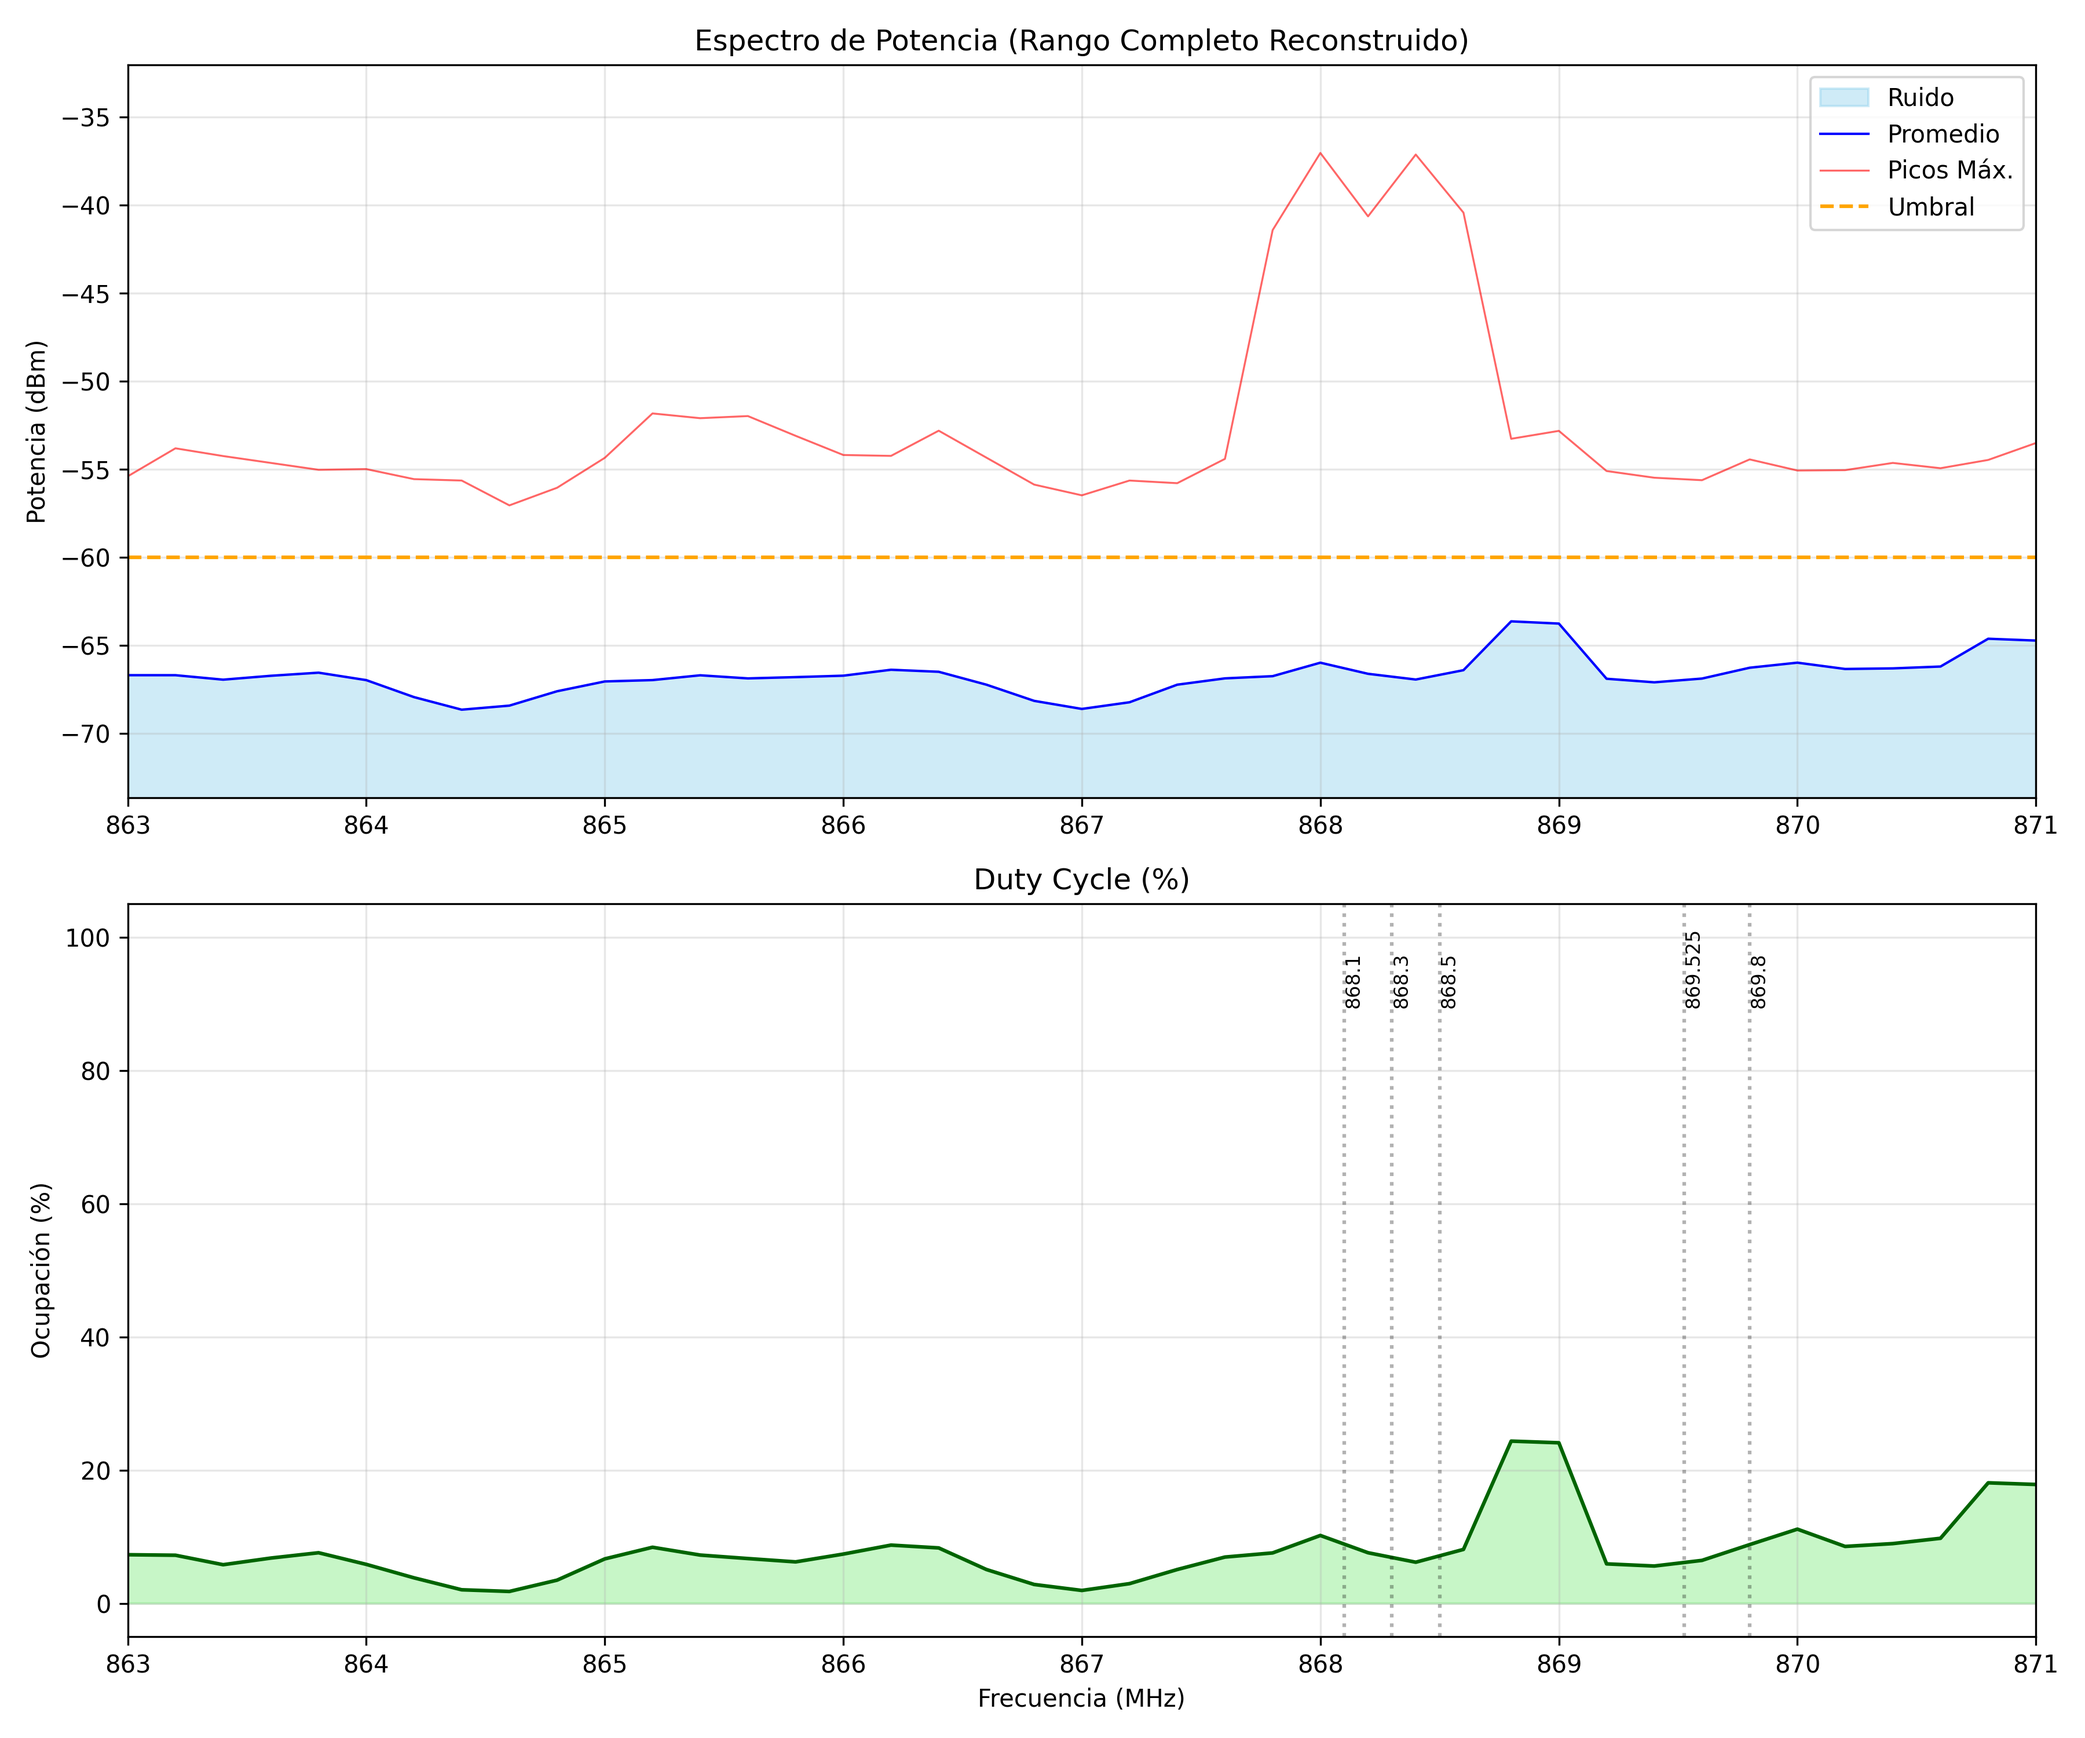
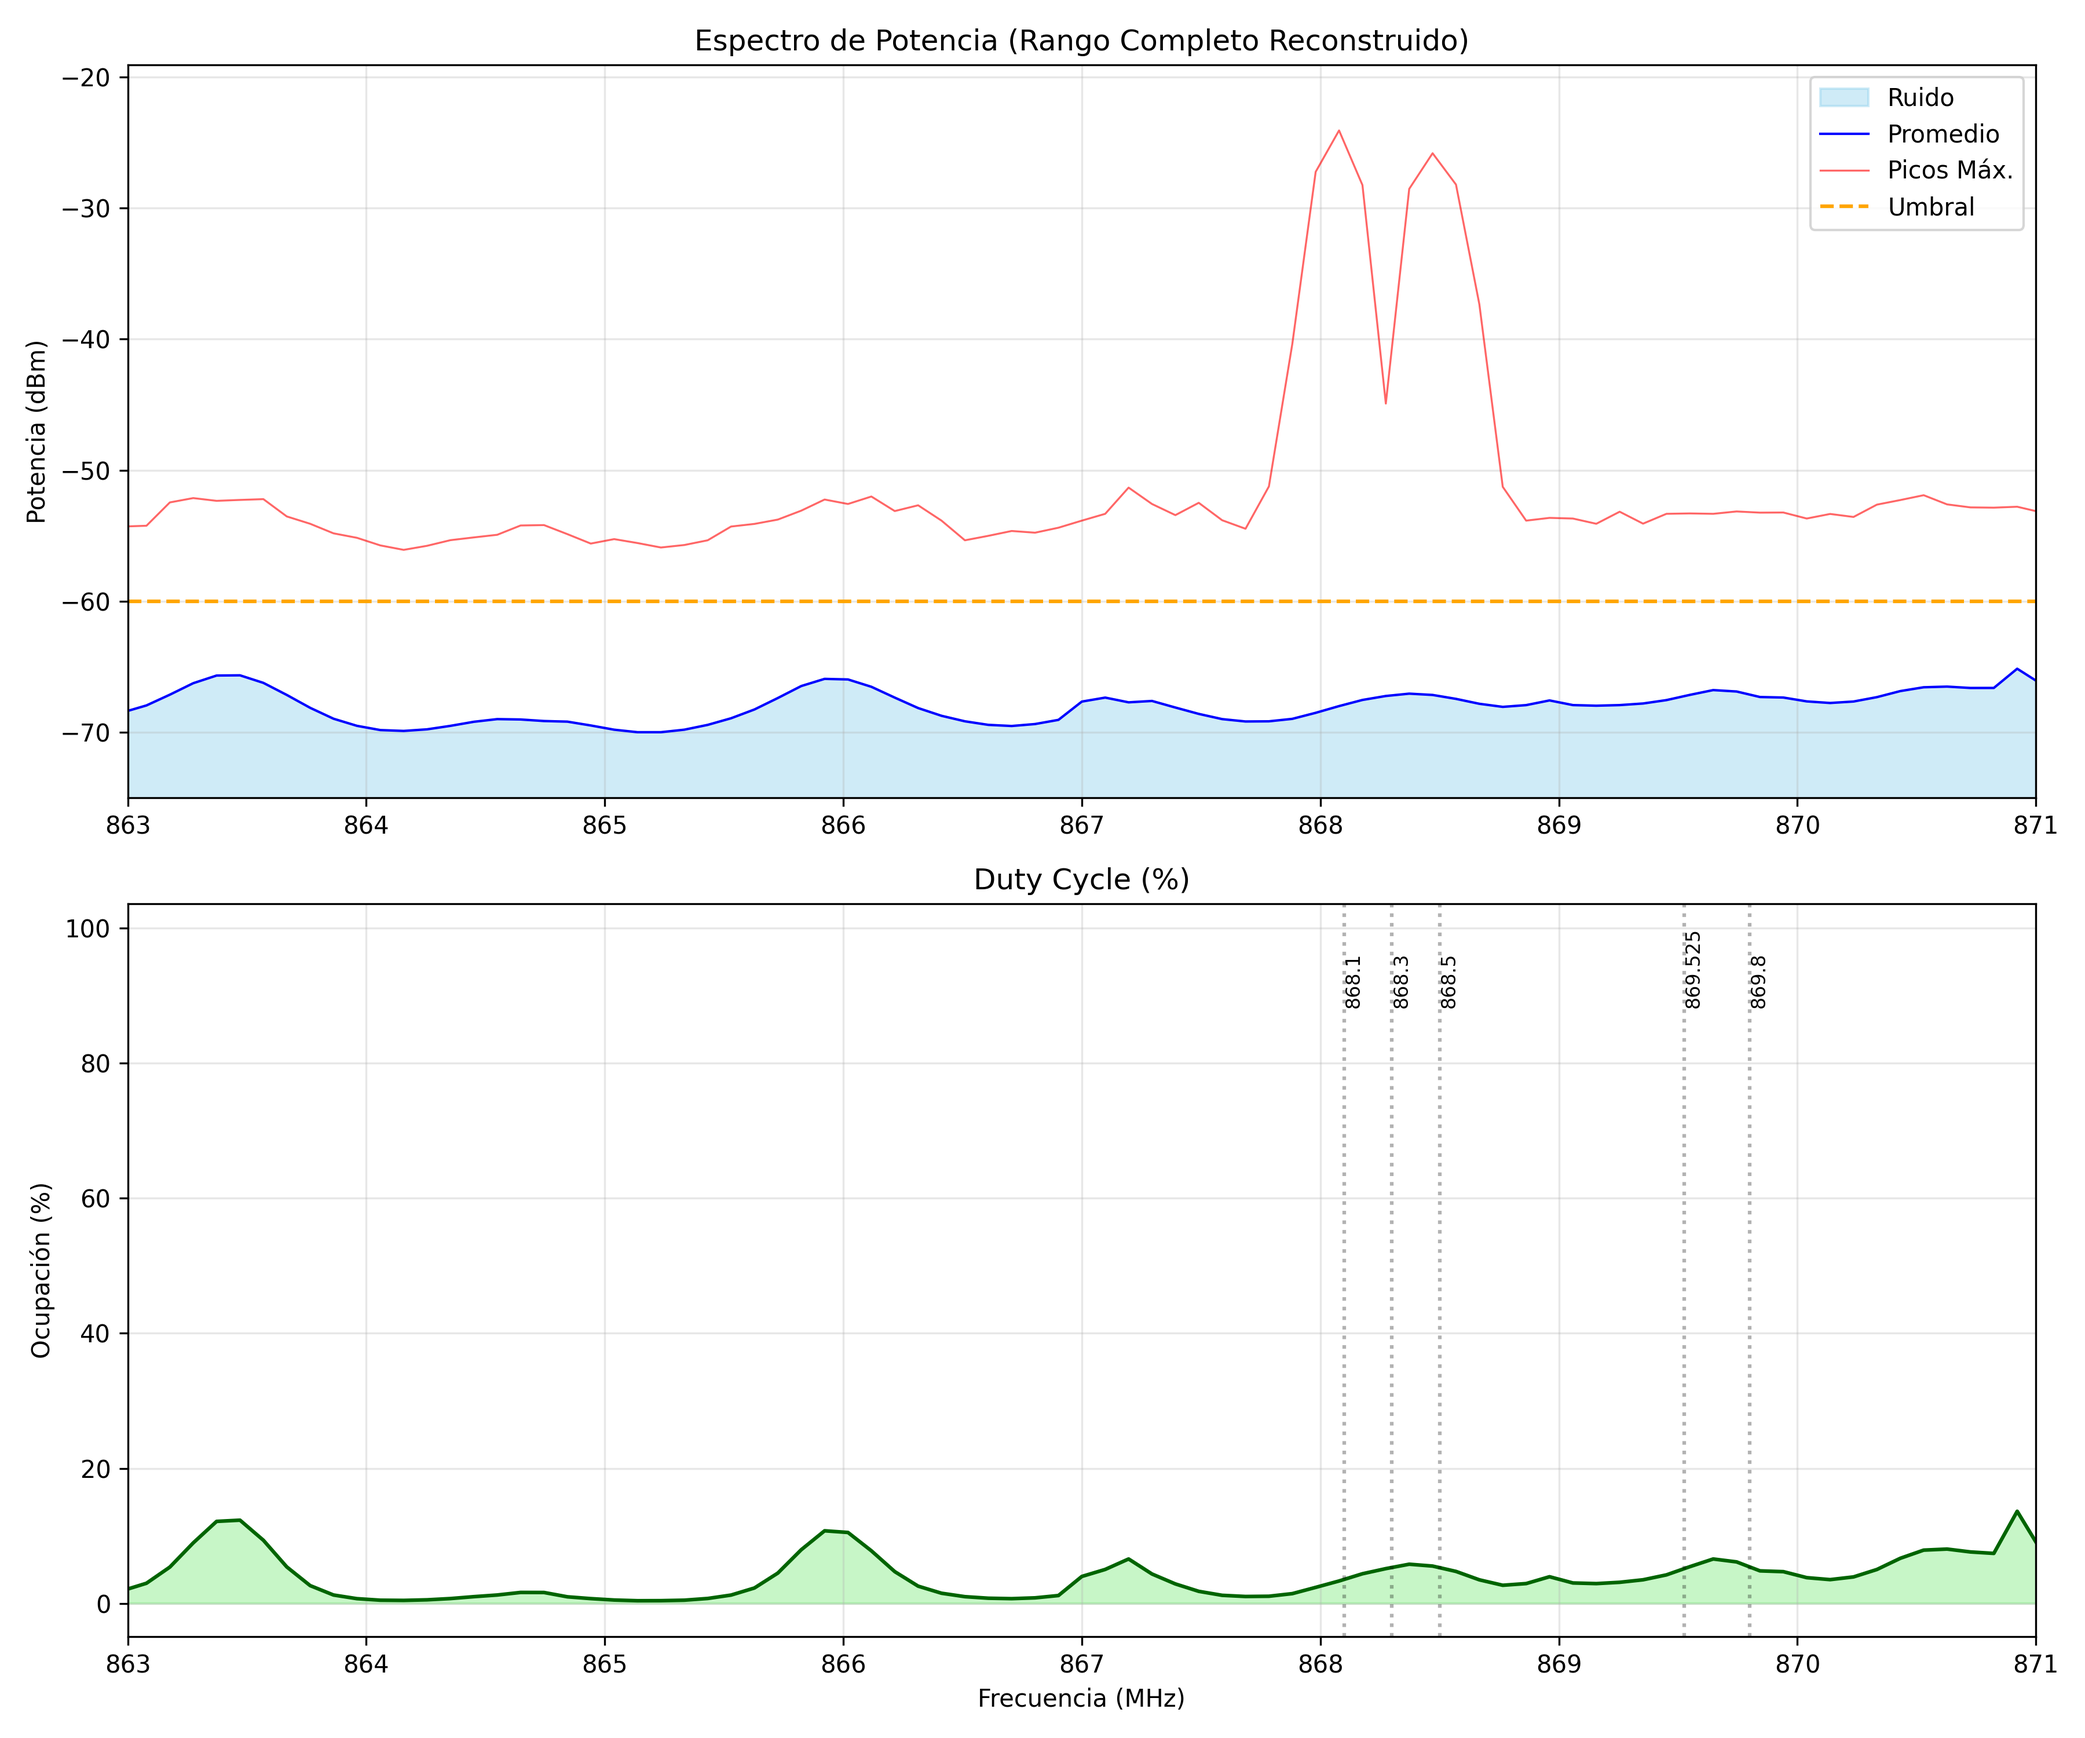
guardando resultados

diff --git a/analisis_lora_v2.py b/analisis_lora_v2.py
@@ -3,8 +3,8 @@ import matplotlib.pyplot as plt
 import numpy as np
 
 # Load the file
-file_path = 'captura_universidad.csv'
-
+file_path = 'captura_aulario_1hora.csv'
+print(f"Cargando datos desde: {file_path}")
 # Read with error handling for encoding
 try:
     df = pd.read_csv(file_path, header=None, encoding='utf-8')
@@ -12,7 +12,7 @@ except:
     df = pd.read_csv(file_path, header=None, encoding='utf-16')
 
 df = df.dropna()
-
+print(f"Datos cargados: {df.shape[0]} filas, {df.shape[1]} columnas")
 # --- Reconstruct Waterfall Matrix ---
 # Identify sweep blocks based on start frequency (Column 2)
 freq_starts = df[2].unique()
@@ -23,6 +23,7 @@ row0 = df[df[2] == freq_starts[0]].iloc[0]
 bin_width_hz = row0[4]
 
 bloques = []
+print("Creando bloques de datos por frecuencia de inicio:")
 for f_start in freq_starts:
     sub_df = df[df[2] == f_start].copy()
     
@@ -40,14 +41,14 @@ for f_start in freq_starts:
     potencias['sweep_id'] = range(len(potencias))
     
     bloques.append(potencias)
-
+print(f"Total bloques creados: {len(bloques)}")
 # Merge blocks horizontally aligned by sweep_id
 dfs_to_merge = [b.set_index('sweep_id') for b in bloques]
 matriz_espectro = pd.concat(dfs_to_merge, axis=1).sort_index(axis=1)
 
 # Filter range of interest (863 - 870 MHz)
-FRECUENCIA_MIN_INTERES = 863.0
-FRECUENCIA_MAX_INTERES = 870.0
+FRECUENCIA_MIN_INTERES = 862.0
+FRECUENCIA_MAX_INTERES = 871.0
 cols_mhz = matriz_espectro.columns / 1e6
 mask_freq = (cols_mhz >= FRECUENCIA_MIN_INTERES) & (cols_mhz <= FRECUENCIA_MAX_INTERES)
 matriz_espectro_filt = matriz_espectro.loc[:, mask_freq]
@@ -63,7 +64,7 @@ todos_los_valores = todos_los_valores[~np.isnan(todos_los_valores)]
 hist_y, hist_x = np.histogram(todos_los_valores, bins=100)
 pico_ruido = hist_x[np.argmax(hist_y)]
 umbral_calculado = pico_ruido + 6.0
-
+umbral_calculado = -55
 print(f"Piso de ruido estimado: {pico_ruido:.2f} dB")
 print(f"Umbral calculado (+6dB): {umbral_calculado:.2f} dB")
 
@@ -93,15 +94,16 @@ fig = plt.figure(figsize=(15, 10))
 gs = fig.add_gridspec(2, 2, width_ratios=[3, 1], height_ratios=[1, 1])
 
 # 1. Waterfall
-ax1 = fig.add_subplot(gs[0, 0])
+ax1 = fig.add_subplot(gs[0, :])
 im = ax1.imshow(matriz_espectro_filt, aspect='auto', 
                 extent=[freqs_mhz.min(), freqs_mhz.max(), len(tiempo_sweeps), 0],
                 cmap='inferno', vmin=pico_ruido-5, vmax=umbral_calculado+20)
 ax1.set_title("Espectrograma (Waterfall)")
-ax1.set_ylabel("Tiempo (Barridos)")
+ax1.set_ylabel("Tiempo (Barridos)(1 hora total)")
 ax1.set_xlabel("Frecuencia (MHz)")
 plt.colorbar(im, ax=ax1, label='dBfs')
 
+'''
 # 2. Histogram
 ax2 = fig.add_subplot(gs[0, 1])
 ax2.hist(todos_los_valores, bins=100, color='gray', orientation='horizontal', density=True)
@@ -109,17 +111,18 @@ ax2.axhline(pico_ruido, color='blue', linestyle='--', label='Ruido')
 ax2.axhline(umbral_calculado, color='red', linestyle='-', label='Umbral')
 ax2.set_title("Distribución de Energía")
 ax2.legend()
-
+'''
 # 3. Spectrum Summary
 ax3 = fig.add_subplot(gs[1, :])
 avg_spectrum = matriz_espectro_filt.mean(axis=0)
 max_spectrum = matriz_espectro_filt.max(axis=0)
-ax3.plot(freqs_mhz, max_spectrum, color='red', alpha=0.5, label='Max Hold')
+ax3.plot(freqs_mhz, max_spectrum, color='red', alpha=0.5, label='Máximo observado')
 ax3.plot(freqs_mhz, avg_spectrum, color='navy', label='Promedio')
-ax3.axhline(umbral_calculado, color='orange', linestyle='--', label='Umbral Dinámico')
+ax3.axhline(umbral_calculado, color='orange', linestyle='--', label='Umbral Ruido')
 ax3.set_title("Espectro Agregado")
 ax3.set_xlabel("Frecuencia (MHz)")
 ax3.legend()
 
 plt.tight_layout()
+plt.savefig("analisis_lora_v2.png", dpi=600)
 plt.show()

diff --git a/analisis_lora.py b/analisis_lora.py
@@ -6,7 +6,7 @@ import os
 # ==========================================
 # CONFIGURACIÓN
 # ==========================================
-ARCHIVO_CSV = "captura_universidad.csv"
+ARCHIVO_CSV = "captura_aulario_1hora.csv"
 UMBRAL_OCUPACION_DB = -60.0  # Ajusta según tu ruido (aprox 10dB por encima del suelo azul)
 ANCHO_CANAL_LORA = 0.125     # MHz
 
